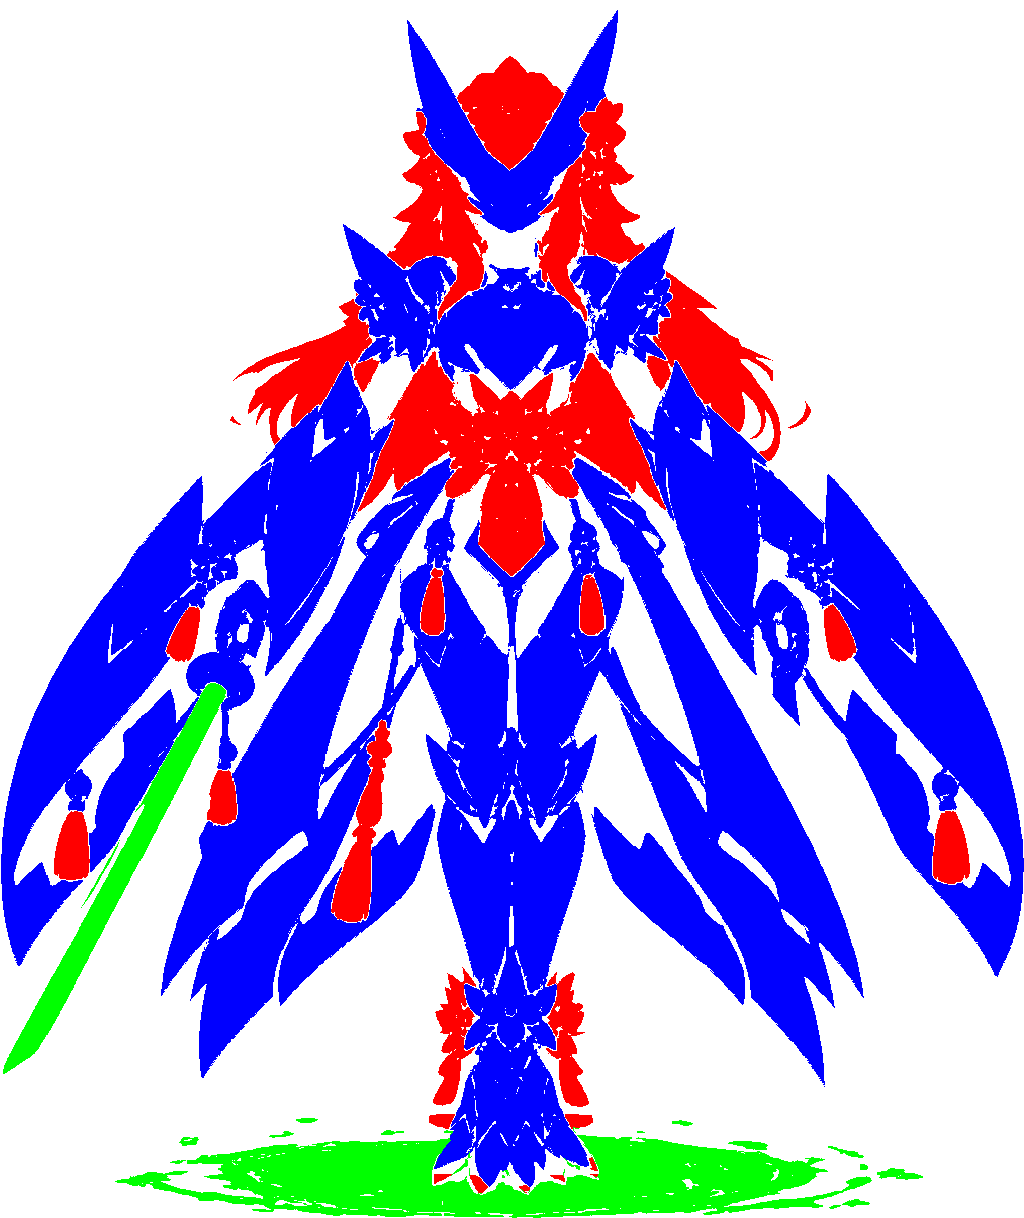
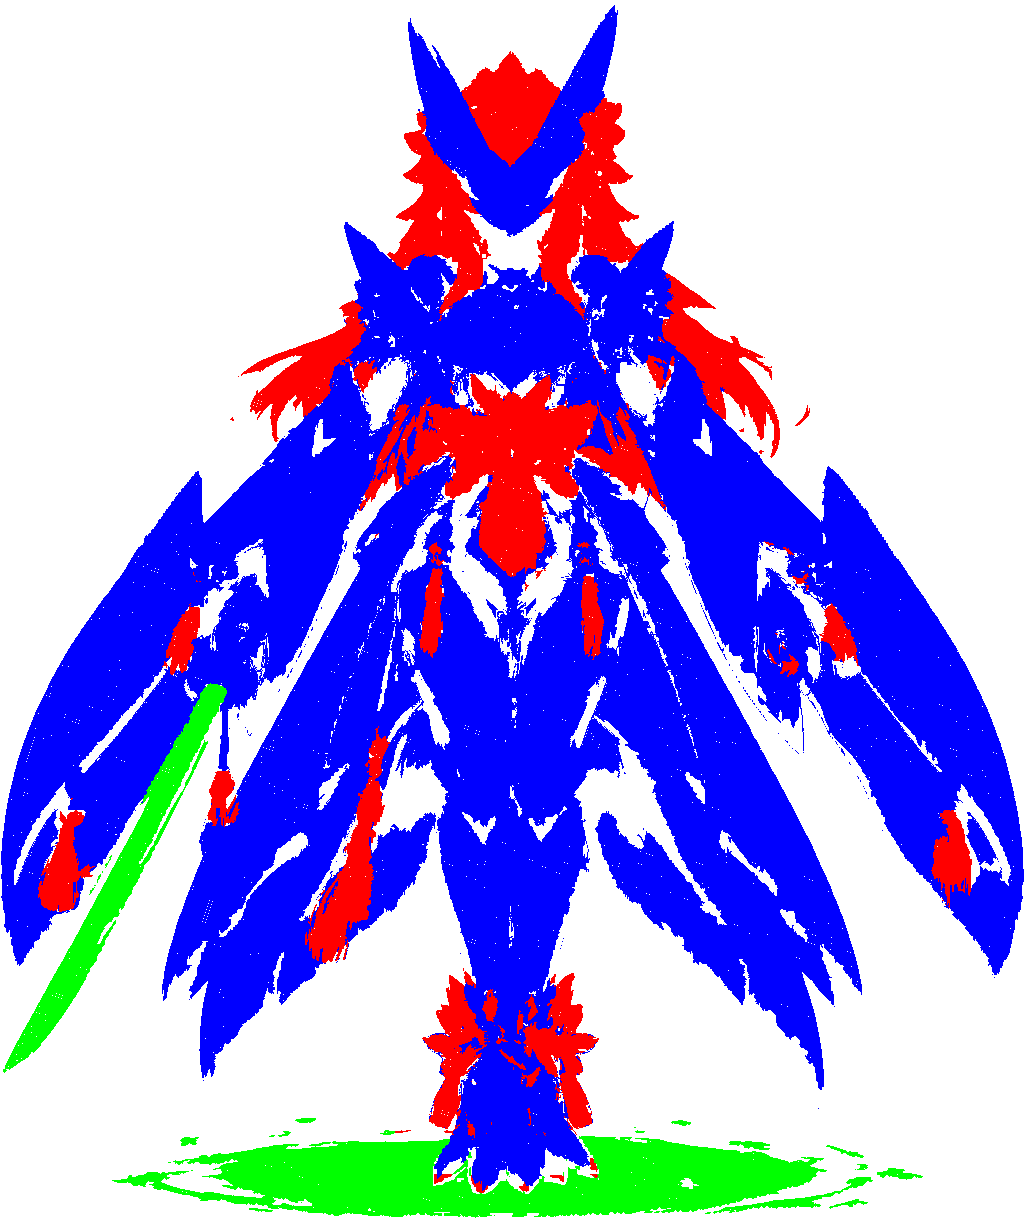
染色マスクの見直し: エイキの房飾り・足元の花びらを①、羽の内側の紫の板を③にそろえた
2026-10-27 部長・社長の答え。桃色の房飾り・結び目と足元の桃色の花びらは「桜系の飾り」なので①
(1本の房の中で①と③に縦に切れていた)。羽の内側の濃い紫の板は鎧と一緒に③(③と染めないのまだらだった)。
範囲はゆるく取り、境目は色(色相・彩度・明るさ)で決めた。

Claude-Session: https://claude.ai/code/session_01FMnScf6fx7a1Bakahouj7w

diff --git a/tools/image/refine-dye-mask.js b/tools/image/refine-dye-mask.js
@@ -68,6 +68,21 @@ const CONFIGS = {
     { from: 0, to: 4, diff: 90, hue: [170, 358], box: [232, 160, 275, 220] },
     { from: 2, to: 1, diff: 30, box: [185, 160, 255, 220] },
   ] },
+  // エイキ(区分け: ①=髪・腹のリボン・桜系の飾り / ②=刀身・足元のオーラ / ③=鎧)。2026-10-27 部長・社長の答え:
+  // 羽の内側の濃い紫の板は③(色相295〜330・明るさ0.62以下)、桃色の房飾り・結び目は①(色相326〜352・彩度0.55以上・明るさ0.62以上。紫の板は色相317前後で明るさ0.6以下なので分かれる)、
+  // 足元の桃色の花びらも①(淡いので彩度0.3以上)。
+  // 範囲(房飾り7本と足元のまわり)はゆるく取り、境目は色の条件で決める。足元のオーラ(②)は from に入れないので動かない
+  Eiki: { edgeFill: false, pre: [
+    { from: [-1, 0], to: 2, hue: [295, 330], sat: [0.3, 1], val: [0, 0.62], poly: [[0, 300], [1024, 300], [1024, 1130], [0, 1130]] },
+    { from: [-1, 2], to: 0, hue: [326, 352], sat: [0.55, 1], val: [0.62, 1], poly: [[150, 520], [210, 520], [210, 700], [150, 700]] },
+    { from: [-1, 2], to: 0, hue: [326, 352], sat: [0.55, 1], val: [0.62, 1], poly: [[20, 780], [100, 780], [100, 920], [20, 920]] },
+    { from: [-1, 2], to: 0, hue: [326, 352], sat: [0.55, 1], val: [0.62, 1], poly: [[290, 720], [380, 720], [380, 980], [290, 980]] },
+    { from: [-1, 2], to: 0, hue: [326, 352], sat: [0.55, 1], val: [0.62, 1], poly: [[375, 520], [450, 520], [450, 680], [375, 680]] },
+    { from: [-1, 2], to: 0, hue: [326, 352], sat: [0.55, 1], val: [0.62, 1], poly: [[525, 520], [600, 520], [600, 680], [525, 680]] },
+    { from: [-1, 2], to: 0, hue: [326, 352], sat: [0.55, 1], val: [0.62, 1], poly: [[720, 520], [810, 520], [810, 700], [720, 700]] },
+    { from: [-1, 2], to: 0, hue: [326, 352], sat: [0.55, 1], val: [0.62, 1], poly: [[860, 780], [950, 780], [950, 930], [860, 930]] },
+    { from: [-1, 2], to: 0, hue: [318, 352], sat: [0.3, 1], val: [0.6, 1], poly: [[380, 980], [600, 980], [600, 1135], [380, 1135]] },
+  ] },
   // 黒目は彩度1.0、まぶたの黄色は0.57なので、彩度0.85以上の画素だけ進む
   // 黒目のふちの暗い帯も黒目なので、暗い画素(線の扱い)も進む(lines)
   Suezo: { grow: [{ from: 0, to: 1, diff: 40, sat: [0.85, 1], lines: true, box: [400, 360, 760, 690] }] },
@@ -129,6 +144,7 @@ const refine = (srcData, Lin, W, H, cfg) => {
       // hue: [下, 上] … その色相の画素だけ(肌色とひれの緑のように、ぼかしで続く2色を色で分けるとき)
       // sat: [下, 上] … その彩度の画素だけ(陰で暗くなった白い毛と、紫の毛を分けるとき)
       if (pr.sat) { const sat = hsvOf(srcData, i)[1]; if (sat < pr.sat[0] || sat > pr.sat[1]) continue; }
+      if (pr.val) { const va = hsvOf(srcData, i)[2]; if (va < pr.val[0] || va > pr.val[1]) continue; }
       if (pr.hue) { const [h, sat] = hsvOf(srcData, i); if (sat < 0.06 || !(pr.hue[0] <= pr.hue[1] ? (h >= pr.hue[0] && h <= pr.hue[1]) : (h >= pr.hue[0] || h <= pr.hue[1]))) continue; }
       L0[i] = pr.to;
     }
@@ -422,7 +438,8 @@ const labelsFromPng = async (file, srcData, W, H) => {
   const r = refine(srcData, L0, W, H, cfg);
   // 絵の外周の半透明のふち(不透明度20〜127)は部位図では透明扱いなので、となりの部位で埋める。
   // 埋めないと、染めたとき外周に元の色の縁が残る(tools/image/dye-edge-check.js が見張る)
-  for (let pass = 0; pass < 3; pass++) {
+  // edgeFill:false の子は埋めない(エイキ: 足元のオーラの半透明のぼかしまで②になり、見本比べの検査で取り違えと数えられた)
+  for (let pass = 0; pass < (cfg.edgeFill === false ? 0 : 3); pass++) {
     const next = new Int8Array(r.L);
     for (let i = 0; i < W * H; i++) {
       if (r.L[i] !== -2 || srcData[i * 4 + 3] < 20) continue;
@@ -432,6 +449,26 @@ const labelsFromPng = async (file, srcData, W, H) => {
       }
     }
     r.L.set(next);
+  }
+  // まわりが透明な、ごく小さい点(9px未満。オーラの粒など)は染めない。ゲームはマスクを解析サイズ(最大768px)へ縮めて読むので、
+  // 原寸で1〜2pxの点は縮めると消えたり、となりへずれたりする(エイキの見本比べで「境目の外の取り違え」になった)
+  {
+    const seen = new Uint8Array(W * H);
+    for (let s0 = 0; s0 < W * H; s0++) {
+      if (seen[s0] || r.L[s0] < 0) continue;
+      const lab = r.L[s0], comp = [s0];
+      seen[s0] = 1;
+      let alone = true;
+      for (let q = 0; q < comp.length && comp.length < 9; q++) {
+        const p = comp[q], x = p % W;
+        for (const n of [x > 0 ? p - 1 : -1, x < W - 1 ? p + 1 : -1, p - W, p + W]) {
+          if (n < 0 || n >= W * H) continue;
+          if (r.L[n] === lab) { if (!seen[n]) { seen[n] = 1; comp.push(n); } }
+          else if (r.L[n] !== -2) alone = false;
+        }
+      }
+      if (comp.length < 9 && alone) for (const p of comp) r.L[p] = -2;
+    }
   }
   let changed = 0; for (let i = 0; i < W * H; i++) if (r.L[i] !== L0[i]) changed++;
   const out = outArg || path.join(TOOLS_DIR, 'out', 'dye-mask-review', `${id}-refined.png`);

diff --git a/monster-hero/index.html b/monster-hero/index.html
@@ -102,7 +102,7 @@ var GAME_BUILD = '085006944714';
 window.__mhGameBuild = GAME_BUILD;
 // 画面に出す版の日時(BUILD_DATE)。本体の中に書くと、ビルドのたびに本体の中身(と GAME_BUILD)が変わり、
 // 事前ダウンロードにためた本体が使えなくなるので、ここから渡す。tools/stamp-version.js が version.json と同じ値を打つ
-window.__mhBuildDate = '2026-10-27 05:26';
+window.__mhBuildDate = '2026-10-27 05:41';
 // 起動でいちばん大きいのは本体JS(約2.7MB)。いちばん後ろで読むため、そこへ来ると
 // ゲージが止まって見えていた。先に取りはじめて、受け取ったバイト数をそのまま出す。
 // ここで取ったものはブラウザのキャッシュに載るので、下の <script> は取り直さない
@@ -2245,7 +2245,7 @@ window.__mhBoot.prefetch('game-system.compiled.js', 'game-system.compiled.js?v='
 <body>
 <div id="loading"><div class="static-mocchi"><img id="static-mocchi-image" alt="モッチー"><span></span></div><section class="static-copy"><h1>NOW LOADING</h1><h2>冒険の準備をしています</h2><div class="static-progress"><span></span></div><strong>0%</strong><p>ゲームシステムを起動中</p></section></div>
 <div id="root"></div>
-<script src="data/images/images-ally.js?v=0678141ffcb1" onload="__mhBoot.done('data/images/images-ally.js','モンスターの絵を読み込み中')" onerror="__mhBoot.fail('data/images/images-ally.js')"></script>
+<script src="data/images/images-ally.js?v=33cf4fe90934" onload="__mhBoot.done('data/images/images-ally.js','モンスターの絵を読み込み中')" onerror="__mhBoot.fail('data/images/images-ally.js')"></script>
 <script>try{document.getElementById('static-mocchi-image').src=MOCCHI_IMG}catch(e){}</script>
 <script src="data/images/images-enemy.js?v=f10f6ad82110" onload="__mhBoot.done('data/images/images-enemy.js','敵モンスターの絵を読み込み中')" onerror="__mhBoot.fail('data/images/images-enemy.js')"></script>
 <script src="data/ally-monsters.js?v=63416d0de09b" onload="__mhBoot.done('data/ally-monsters.js','モンスターデータを読み込み中')" onerror="__mhBoot.fail('data/ally-monsters.js')"></script>

diff --git a/monster-hero/data/images/images-ally.js b/monster-hero/data/images/images-ally.js
@@ -129,7 +129,7 @@ const YAOBIKUNI_DYE_MASK = "images/monsters/yaobikuni-dye-mask2.PNG?v=c4c739ed5b
 // 染色マスクは承認済みマスクの範囲そのままで、色だけリポジトリ仕様(赤=①/緑=②/青=③)へ
 // 置き換えたもの(tools/image/convert-dye-mask.js)。形は1画素も描き直していない
 const EIKI_IMG = "images/monsters/eiki.png?v=0105e40f8d1a";
-const EIKI_DYE_MASK = "images/monsters/eiki-dye-mask.PNG?v=6b5ab28ef5b4";
+const EIKI_DYE_MASK = "images/monsters/eiki-dye-mask.PNG?v=72185954c1f9";
 // 2026年9月に追加準備中のレア「剣士モッチー」(モッチー×？？？)。正式実装まではデバッグ専用。
 // 染色は5部位で、承認済みマスクの色分けがそのままリポジトリ仕様に合っている
 // (赤=①肌 / 緑=②コート・ブーツ / 青=③髪 / 黄=④左手の剣 / マゼンタ=⑤右手の剣)。

diff --git a/docs/progress/dye-mask-review/README.md b/docs/progress/dye-mask-review/README.md
@@ -21,7 +21,7 @@
 | 2 | ヤオビクニ `Yaobikuni` | 大 | 肌と髪・桃色の後ろ髪の境目が大きくずれる。頬に四角い切れ目。左右の腕で部位が食い違う(左は肌色まで①、右は上半分だけ③) | **直した**(`yaobikuni.png`)。腕は「肌色→肌③・緑のひれ→①」にそろえた |
 | 3 | パンドラ `Pandora` | 大 | 髪の左右の境目が絵より6画素ほど右(肌色の髪に紫が入る)。スカートの折り目の線が塗り残しで、濃い色で白い筋 | **直した**(`pandora.png`)。髪の左右の境目が絵の線に乗った・スカートの折り目の白い筋が消えた |
 | 4 | タイガー `Tiger` | 大 | あご下・胸の陰になった白い毛が体の部位。右後ろ足が縦一直線で切れる。尾の先の白は染まらない(四角い範囲の外) | **直した**(`tiger.png`)。白い毛を色で②へ。尾の先の白は 2026-10-27 社長の決定で②へ入れた(`tiger-tail.png`。尾のまわりの外は1画素も変わっていない) |
-| 5 | エイキ `Eiki` | 大 | 白い鎧のふちに塗り残しの白い筋。足元の花びらに桃色の点が多数。顔まわりの境目が線の2〜3画素内側。房飾りが1本の中で①と③に縦に切れている・羽の内側の濃い紫が③と染めないのまだら | 区分けを部長に質問中(`eiki-question.jpg`) |
+| 5 | エイキ `Eiki` | 大 | 白い鎧のふちに塗り残しの白い筋。足元の花びらに桃色の点が多数。顔まわりの境目が線の2〜3画素内側。房飾りが1本の中で①と③に縦に切れている・羽の内側の濃い紫が③と染めないのまだら | **直した**(`eiki.png`・`eiki-tassel.png`・`eiki-feet.png`)。2026-10-27 部長・社長の答え: 房飾り・結び目・足元の桃色の花びらは①、羽の内側の濃い紫の板は③。残り: 房飾りの暗い陰(明るさ0.62未満)の一部は③のまま、足元の白い花びらは③のまま(白は区分けに無い)、白い鎧のふちの白い筋と顔まわりは直していない |
 | 6 | イルミネ `Illumine` | 大 | 頭のてっぺんに四角い部位の区切り(下のふちがざらざら)、濃い色で頭に横帯の色むら。フードの2色の境目に点が散る | **直した**(`illumine.png`)。頭の暗い紫を②へ(明るさ0.5以下を②からたどる)。残り: 左の髪飾りのまわり(x 300〜315・y 170〜200)に③の小さなかたまり、脚のあいだの光る筋に小さな出っぱり2つ |
 | 7 | ドリーミィ `Dreamy` | 大 | 足に四角い切れ目(形で決めた跡)。目のまわり・胸の飾りに点が散る | **直した**(`dreamy.png`)。脚を①へ(脚の色だけ①からたどる)・ボタンの目の花を⑤へ・顔の左下の雲に入った③を②へ。残り: 左脚の付け根の縫い目のまわり(x 205〜215・y 505〜545)が②のまま、胸の飾りまわりの点(4倍の3段目)は区分けが細かく直していない |
 | 8 | おぼろ `Oboro` | 大 | 花びらの中の水色のぼかしが塗り残しでギザギザ。左右の花の下が横一直線に切れる | これから |
@@ -74,6 +74,7 @@
 | イルミネ | `illumine.png` |
 | ドリーミィ | `dreamy.png` |
 | タイガー(尾の先) | `tiger-tail.png` |
+| エイキ | `eiki.png`・`eiki-tassel.png`・`eiki-feet.png` |
 | ゴーレム | `golem.png`・`golem-shoulder.png`・`golem-shoulder-right.png` |
 
 ## 訂正(2026-10-27)
